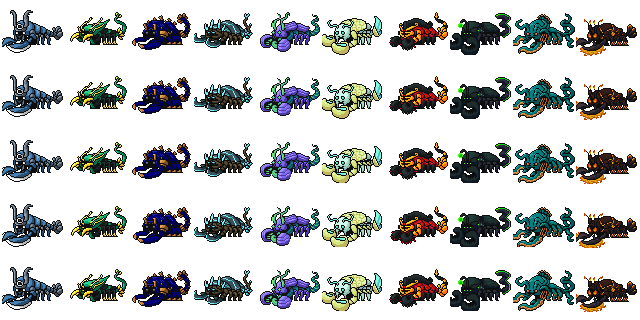
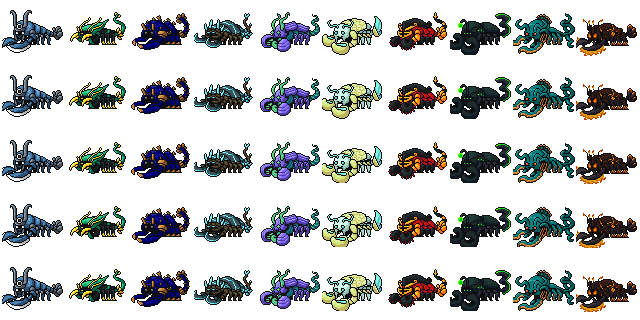
fix(dojo): shadows keep Nzib's flat 2:1 oval, the idle snaps to the art grid like the battle, the squirrel runs in
Owner 2026-10-31: shadows don't match the game, the squirrel appears out of thin air, the idle looks glitchy.

- Shadows: the site's image reset (max-width: 100%) capped each shadow at its slot's width while its height stayed,
  squashing the 64×32 oval into a round blob — on production since the lobby launched. anchorShadow now sets the
  exact 64 × 32 art px at the lobster's scale (max-width: none). Checked against a Unity render with the battle's
  own CharacterShadow: same placement and look. Probe asserts the 2:1 shape.
- Idle: the Idle clips move parts by quarter/half pixels; the battle's PixelPerfectCamera snaps sprites to the
  1/64 grid before drawing, the exporter didn't, so 3 of 5 frames collapsed into one pose and the loop stalled and
  jumped. The exporter now sets PixelPerfectRendering.pixelSnapSpacing = 1/64 around each render: 5 distinct frames.
- Squirrel: whole 12-frame run cycles (25 art px each) play first, each shifted one stride right, starting behind the
  board's right end; the run is clipped where the board's top edge ends (6 px inside its canvas) with a 10 px soft
  edge, so it comes round the end of the sign and runs straight into Nzib's run. (The clip width is read from the
  style — the element is still hidden when measured.)

diff --git a/apps/web/src/components/dojo/dojo-squirrel.tsx b/apps/web/src/components/dojo/dojo-squirrel.tsx
@@ -13,17 +13,26 @@ import run from '../../../public/ui/dojo/squirrel.json';
  * is drawn at the sign's own pixel size (one pixel size for all pixel art, Nzib's rule).
  *
  * Timing as in battle: the first run 10–20 s after the lobby opens, then a random 30–60 s after each run. Skipped while
- * the tab is hidden and under reduced motion. `?squirrel=now` runs it after a second (probes).
+ * the tab is hidden and under reduced motion. `?squirrel=now` runs it after 2.5 s (probes, clips).
  */
 const SRC = '/ui/dojo/squirrel.png';
 /** The strip row the running feet stand on (frames 0–20), and the sign board's top edge in its 64-px-tall art. */
 const RUN_FEET_ROW = 44, BOARD_TOP_ROW = 16;
+/** The board's top edge stops this many art px short of its canvas's right edge (Wooden_Sign.png's end cap). */
+const BOARD_TOP_RIGHT_INSET = 6;
+/** How many art px the squirrel takes to fade in as it comes round the end of the board. */
+const EDGE_SOFTNESS = 10;
 /** Where the strip's left edge sits from the board's left edge, in art px: the run crosses the open middle of the board
  *  and the leap lands in the blossom crown over its left end. */
 const LEFT_FROM_BOARD = 30;
-/** The run starts mid-board, so the squirrel fades in over its first frames instead of popping into being. */
-const FADE_IN_MS = 180;
-const RUN_MS = (run.frames / run.fps) * 1000;
+/** The run enters from behind the board's right end instead of appearing mid-board (owner 2026-10-31: "appears out of
+ *  thin air"). Nzib's run cycle is 12 frames (six poses, two frames each) that carry the squirrel CYCLE_STRIDE art px
+ *  left; whole cycles are played first, each shifted one stride further right, starting past the board's end — so the
+ *  squirrel comes round the end of the sign and runs straight on into his run with no jump or repeated pose. */
+const CYCLE_FRAMES = 12, CYCLE_STRIDE = 25;
+/** The strip's x where the run starts (frame 0's left edge). */
+const RUN_START_X = 59;
+const RUN_MS = (run.frames / run.fps) * 1000;   // plus the run-in, which depends on the sign's width
 const FIRST_MS: [number, number] = [10_000, 20_000];
 const GAP_MS: [number, number] = [30_000, 60_000];
 const between = ([lo, hi]: [number, number]) => lo + Math.random() * (hi - lo);
@@ -31,8 +40,8 @@ const between = ([lo, hi]: [number, number]) => lo + Math.random() * (hi - lo);
 export function DojoSquirrel() {
   const ref = useRef<HTMLDivElement>(null);
   useEffect(() => {
-    const el = ref.current;
-    if (!el || reducedMotion()) return;
+    const el = ref.current, frameEl = el?.firstElementChild as HTMLElement | null;
+    if (!el || !frameEl || reducedMotion()) return;
     let timer: ReturnType<typeof setTimeout> | null = null, raf = 0, stopped = false;
 
     // On the sign: its board canvas is 64 art px tall, so its rect gives both the place and the pixel size.
@@ -41,30 +50,46 @@ export function DojoSquirrel() {
       const r = board?.getBoundingClientRect();
       if (!r || !r.height) return 0;
       const s = r.height / 64;
-      el.style.left = `${r.left + LEFT_FROM_BOARD * s}px`;
+      // The outer box is the clip: from the strip's left edge to the board's right end.
+      const left = r.left + LEFT_FROM_BOARD * s;
+      el.style.left = `${left}px`;
       el.style.top = `${r.top + (BOARD_TOP_ROW - RUN_FEET_ROW - 1) * s}px`;
-      el.style.width = `${run.width * s}px`;
+      el.style.width = `${Math.max(0, r.right - BOARD_TOP_RIGHT_INSET * s - left)}px`;   // clipped where the board's top edge ends
       el.style.height = `${run.height * s}px`;
-      el.style.backgroundSize = `${run.width * run.frames * s}px ${run.height * s}px`;
+      // A soft edge where it comes round the board's end, so it materialises over a few pixels instead of along a line.
+      const mask = `linear-gradient(to left, transparent 0, #000 ${EDGE_SOFTNESS * s}px)`;
+      el.style.maskImage = mask;
+      el.style.webkitMaskImage = mask;
+      frameEl.style.width = `${run.width * s}px`;
+      frameEl.style.height = `${run.height * s}px`;
+      frameEl.style.backgroundSize = `${run.width * run.frames * s}px ${run.height * s}px`;
       return s;
     };
     const play = () => {
       if (stopped) return;
       if (document.hidden) { schedule(GAP_MS); return; }
       const start = performance.now();
+      // Enough whole cycles that the first one starts behind the end of the board.
+      const s0 = place();
+      const clipArt = s0 ? parseFloat(el.style.width) / s0 : run.width;   // still hidden here: read the width we set, not the layout
+      const cycles = Math.max(1, Math.ceil((clipArt - RUN_START_X) / CYCLE_STRIDE));
+      const runIn = cycles * CYCLE_FRAMES;
       el.hidden = false;
       el.dataset.running = 'true';
       const step = (now: number) => {
-        const frame = Math.floor(((now - start) / 1000) * run.fps);
-        if (stopped || frame >= run.frames) {
+        const tick = Math.floor(((now - start) / 1000) * run.fps);
+        if (stopped || tick >= runIn + run.frames) {
           el.hidden = true;
           delete el.dataset.running;
           if (!stopped) schedule(GAP_MS);
           return;
         }
         const s = place();
-        el.style.backgroundPosition = `${-frame * run.width * s}px 0`;
-        el.style.opacity = String(Math.min(1, (now - start) / FADE_IN_MS));
+        const inRunIn = tick < runIn;
+        const frame = inRunIn ? tick % CYCLE_FRAMES : tick - runIn;
+        const shift = inRunIn ? (cycles - Math.floor(tick / CYCLE_FRAMES)) * CYCLE_STRIDE : 0;
+        frameEl.style.backgroundPosition = `${-frame * run.width * s}px 0`;
+        frameEl.style.transform = `translateX(${shift * s}px)`;
         raf = requestAnimationFrame(step);
       };
       raf = requestAnimationFrame(step);
@@ -72,9 +97,13 @@ export function DojoSquirrel() {
     const schedule = (range: [number, number]) => { timer = setTimeout(play, between(range)); };
 
     const now = new URLSearchParams(window.location.search).get('squirrel') === 'now';
-    if (now) timer = setTimeout(play, 1000);
+    if (now) timer = setTimeout(play, 2500);
     else schedule(FIRST_MS);
     return () => { stopped = true; if (timer) clearTimeout(timer); cancelAnimationFrame(raf); };
   }, []);
-  return <div ref={ref} className="dojo-squirrel" data-testid="dojo-squirrel" hidden aria-hidden="true" style={{ backgroundImage: `url('${SRC}')` }} data-run-ms={RUN_MS} />;
+  return (
+    <div ref={ref} className="dojo-squirrel" data-testid="dojo-squirrel" hidden aria-hidden="true" data-run-ms={RUN_MS}>
+      <div style={{ backgroundImage: `url('${SRC}')` }} />
+    </div>
+  );
 }

diff --git a/apps/web/src/components/dojo/dojo.css b/apps/web/src/components/dojo/dojo.css
@@ -84,7 +84,8 @@ html[data-dojo-stage] .sidebar-shell :is(a, button, .sidebar-panel) { pointer-ev
 .dojo-arena { position: fixed; inset: 0; overflow: hidden; pointer-events: none; z-index: 0; }
 .dojo-arena img { position: absolute; inset: 0; width: 100%; height: 100%; object-fit: cover; object-position: center; image-rendering: pixelated; pointer-events: none; }
 /* Nzib's ninja squirrel, running along the top of the Dojo sign (dojo-squirrel.tsx places and steps it). Above the stage. */
-.dojo-squirrel { position: fixed; z-index: 6; background-repeat: no-repeat; image-rendering: pixelated; pointer-events: none; }
+.dojo-squirrel { position: fixed; z-index: 6; overflow: hidden; pointer-events: none; }
+.dojo-squirrel > div { position: absolute; left: 0; top: 0; background-repeat: no-repeat; image-rendering: pixelated; }
 #page-content[data-page="dojo"] { z-index: 1; }
 /* Local crisp contrast on light sky/walls, without dimming the artwork. */
 [data-page="dojo"] :is(.page-title, .dojo-intro) { text-shadow: -2px -2px #302129, 0 -2px #302129, 2px -2px #302129, -2px 0 #302129, 2px 0 #302129, -2px 2px #302129, 0 2px #302129, 2px 2px #302129; }
@@ -154,7 +155,7 @@ html[data-dojo-stage] .sidebar-shell :is(a, button, .sidebar-panel) { pointer-ev
 #page-content[data-page="dojo"] .dojo-fighter[data-slot="1"] { z-index:2; }
 #page-content[data-page="dojo"] :is([data-fighter="team"][data-slot="2"],[data-fighter="opponent"][data-slot="0"]) { z-index:1; }
 #page-content[data-page="dojo"] [data-fighter="team"] canvas { transform:scaleX(-1); }
-#page-content[data-page="dojo"] .dojo-shadow { position:absolute; width:calc(64 * var(--dojo-selected-pixel)); height:calc(32 * var(--dojo-selected-pixel)); bottom:0; left:50%; transform:translateX(-50%); image-rendering:pixelated; }
+#page-content[data-page="dojo"] .dojo-shadow { max-width:none; position:absolute; width:calc(64 * var(--dojo-selected-pixel)); height:calc(32 * var(--dojo-selected-pixel)); bottom:0; left:50%; transform:translateX(-50%); image-rendering:pixelated; }
 #page-content[data-page="dojo"] .dojo-fighter figcaption { position:absolute; bottom:3px; font:14px/1 var(--type-display); white-space:nowrap; color:#fff4d6; text-shadow:1px 1px #302129,-1px -1px #302129; }
 #page-content[data-page="dojo"] .dojo-card { padding:12px 18px; min-height:0; border:0; line-height:1.2; }
 /* Keep desktop panels content-sized and lineups toward the arena center. */

diff --git a/scripts/harness/dojo-shots.ts b/scripts/harness/dojo-shots.ts
@@ -25,8 +25,10 @@ export default async function (b: Browser) {
     const shadows = await b.eval(`(() => [...document.querySelectorAll('.dojo-fighter')].filter(f => f.querySelector('canvas:not([hidden])')).map(f => {
       const c = f.querySelector('canvas').getBoundingClientRect(), s = f.querySelector('.dojo-shadow').getBoundingClientRect();
       const px = parseFloat(getComputedStyle(f).getPropertyValue('--dojo-selected-pixel')) || 4;
-      return { side: f.dataset.fighter, slot: f.dataset.slot, above: Math.round((c.bottom - (s.top + s.height / 2)) / px * 10) / 10 };
-    }))()`) as { side: string; slot: string; above: number }[];
+      return { side: f.dataset.fighter, slot: f.dataset.slot, above: Math.round((c.bottom - (s.top + s.height / 2)) / px * 10) / 10, ratio: Math.round(s.width / s.height * 100) / 100 };
+    }))()`) as { side: string; slot: string; above: number; ratio: number }[];
+    // Nzib's shadow is a flat 2:1 oval; the site's image reset once squashed it round.
+    ok(shadows.every((s) => Math.abs(s.ratio - 2) < 0.02), `${tier}: shadows keep their 2:1 shape (${shadows.map((s) => s.ratio).join(', ')})`);
     // As in battle: centred 8 px under the rig root, which sits 10–21 px above the lowest pixel → 2–13 px above the feet.
     ok(shadows.length === 6 && shadows.every((s) => s.above >= 2 && s.above <= 14), `${tier}: shadows tucked under the bodies like the battle (centre above the feet, art px: ${shadows.map((s) => s.above).join(', ')})`);
     // Some classes hold a pose for two frames, so sample six times over half a second.
@@ -39,7 +41,7 @@ export default async function (b: Browser) {
   await b.sleep(1700);
   const shot = await b.send('Page.captureScreenshot', { format: 'png' });
   await Bun.write(`${import.meta.dir}/out/dojo-squirrel.png`, Buffer.from(shot.data, 'base64'));
-  await b.sleep(2500);
-  ok(await b.eval(`document.querySelector('[data-testid=dojo-squirrel]').hidden`) as boolean, 'squirrel hidden again after its 3.5 s run');
+  await b.sleep(3500);
+  ok(await b.eval(`document.querySelector('[data-testid=dojo-squirrel]').hidden`) as boolean, 'squirrel hidden again after its run (4.5 s with the run-in)');
   console.log(failures ? `${failures} FAILED` : 'all ok');
 }

diff --git a/apps/web/src/components/dojo/dojo-sprites.ts b/apps/web/src/components/dojo/dojo-sprites.ts
@@ -154,6 +154,12 @@ export function shadowRoot(still: HTMLImageElement, classIndex: number): [number
 export function anchorShadow(shadow: HTMLElement, crop: Crop, side: 'team' | 'opponent', root: [number, number]) {
   const [rx, ry] = root;
   const centreRow = ry + idle.shadowBelowRoot;
+  // Its exact 64 × 32 art px at the lobster's own scale. Set here, not left to CSS: the site's image reset
+  // (max-width: 100%) capped it at the slot's width and a width rule overrode the rest, squashing Nzib's flat 2:1 oval
+  // into a round blob — the reason the lobby's shadows never looked like the battle's.
+  shadow.style.width = `${64 * crop.scale}px`;
+  shadow.style.height = `${32 * crop.scale}px`;
+  shadow.style.maxWidth = 'none';
   shadow.style.bottom = `calc(16 * var(--dojo-selected-pixel) + ${(44 - centreRow - 16) * crop.scale}px)`;
   shadow.style.marginLeft = `${(side === 'team' ? 32 - rx : rx - 32) * crop.scale}px`;
 }

diff --git a/packages/battle-engine/ClawbadaBattle/Assets/Scripts/Editor/WebSpriteExporter.cs b/packages/battle-engine/ClawbadaBattle/Assets/Scripts/Editor/WebSpriteExporter.cs
@@ -253,7 +253,12 @@ public static class WebSpriteExporter
             cam.allowHDR = false;
             cam.allowMSAA = false;
             cam.targetTexture = rt;
-            cam.Render();
+            // Snap every sprite to the art-pixel grid, exactly as the battle's PixelPerfectCamera does in OnPreRender
+            // (pixel snapping on, 64 PPU). The Idle clips move parts by quarter and half pixels; without the snap those
+            // offsets rasterise unevenly (an edge on a pixel centre rounds either way) and the idle flickers.
+            UnityEngine.U2D.PixelPerfectRendering.pixelSnapSpacing = 1f / Ppu;
+            try { cam.Render(); }
+            finally { UnityEngine.U2D.PixelPerfectRendering.pixelSnapSpacing = 0f; }
             var prev = RenderTexture.active;
             RenderTexture.active = rt;
             tex.ReadPixels(new Rect(0, 0, w, h), 0, 0);
